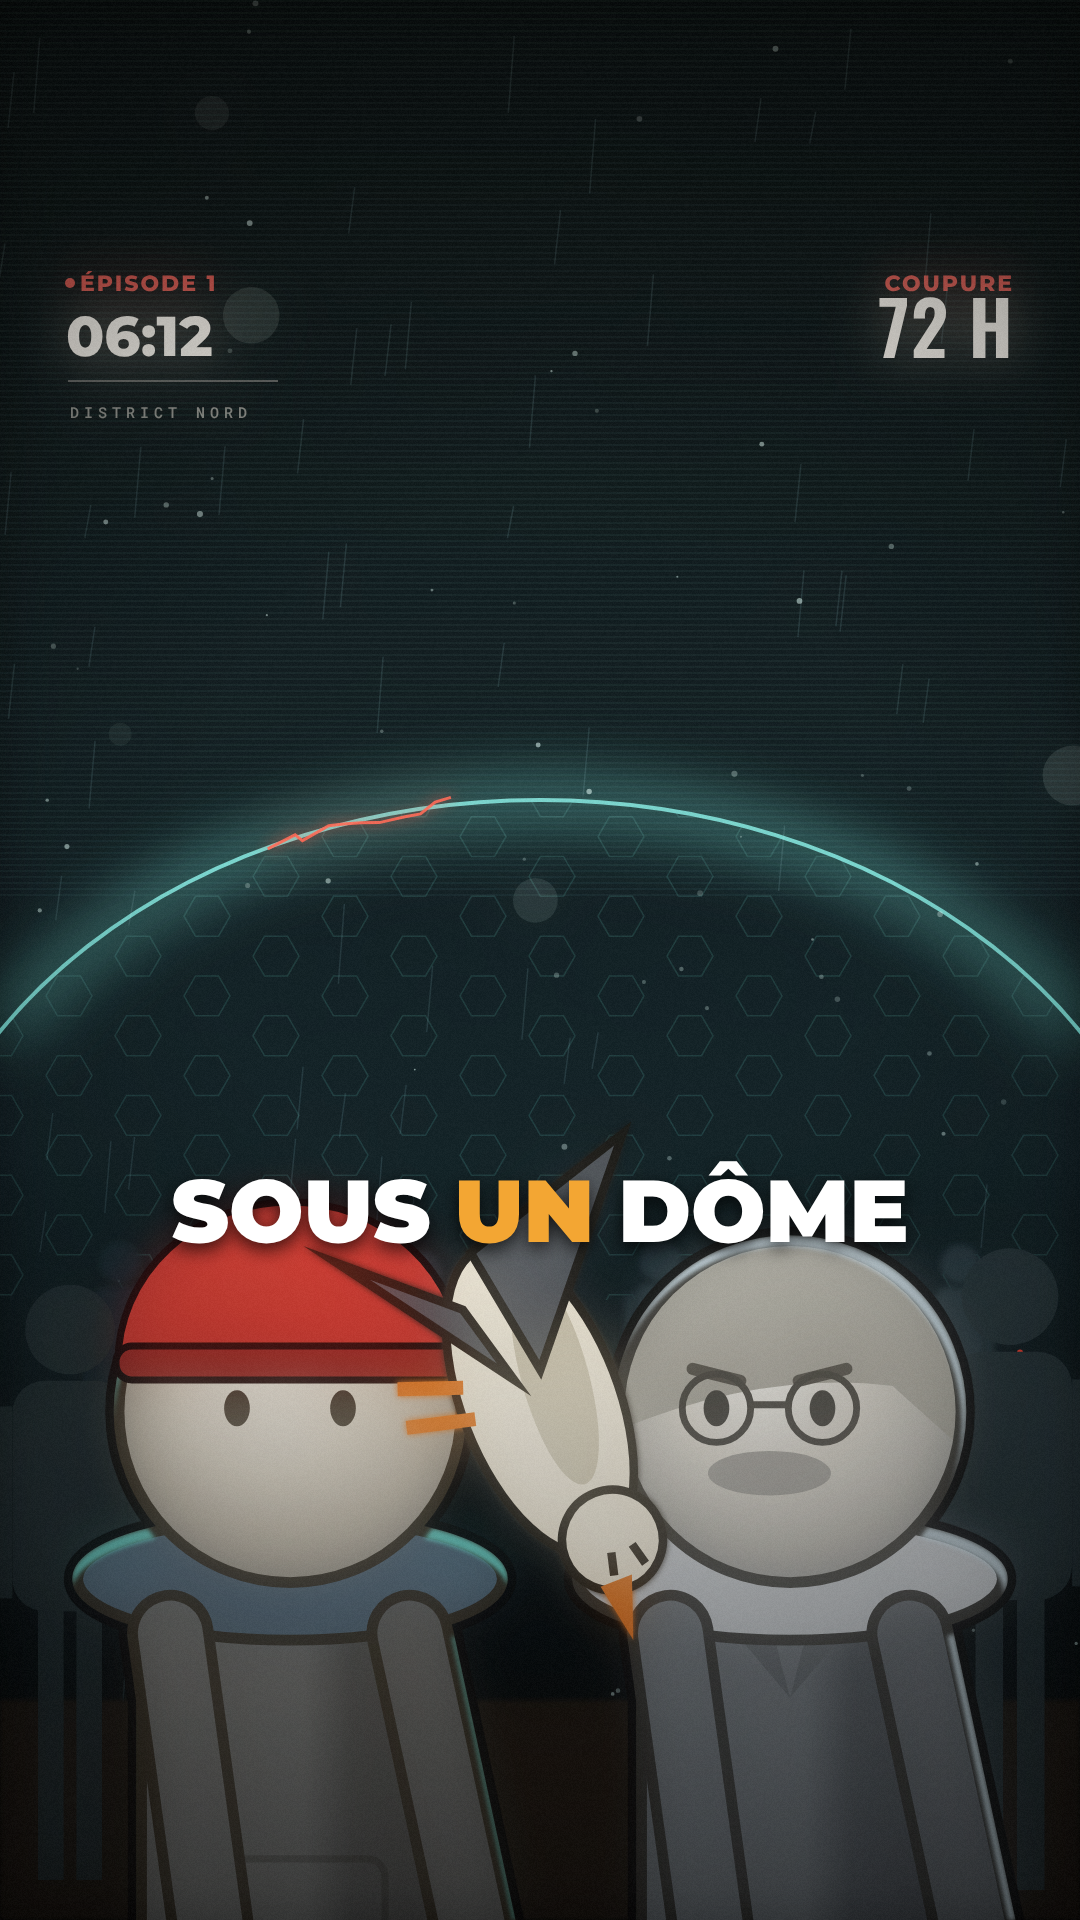
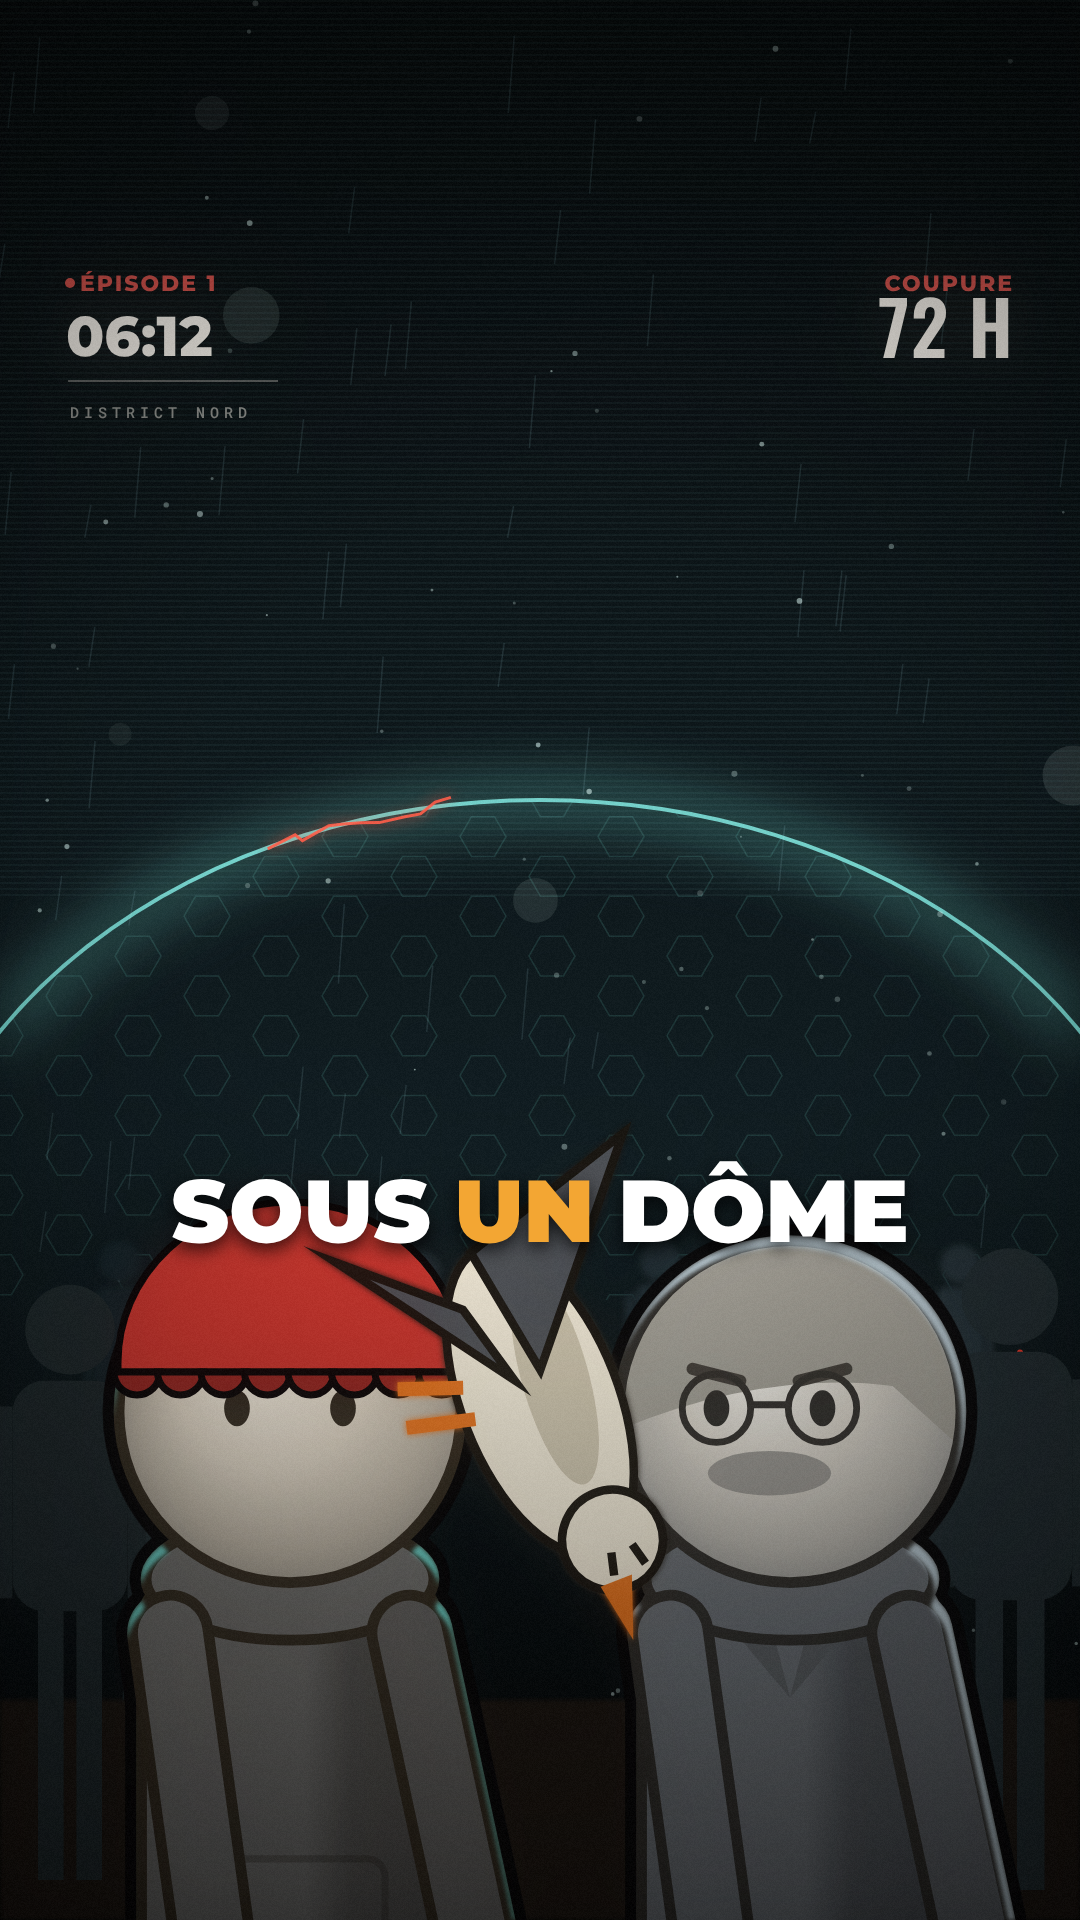
couronne-ep01 : personnages — contour plus épais et noir, col aux couleurs du vêtement et plus étroit, bonnet rouge à bord dentelé
Claude-Session: https://claude.ai/code/session_0151hKPePi5KPXjL7mUCuxno

diff --git a/productions/couronne-ep01/rendu_v3/scenes.js b/productions/couronne-ep01/rendu_v3/scenes.js
@@ -770,15 +770,15 @@ S.p02h_buste_vivant = g => {                              // image 2 v13
   holoDome(g, 101);
   layer(g, q => { q.fillStyle = "#1b1510"; q.fillRect(0, 1700, W, H - 1700); }, { blur: 2 });
   crowdStanding(g);
-  actor(g, 790, 2650, 1.8, { ...PERE, body: "#5d6166", bodyDark: "#383b40", torsoW: 165, look: -0.12, arms: [[-1, 10], [1, 10]] }, { rim: "#cfe3ee", rimAng: -1.2, rimW: 7, key: "#dfe9ef", shadow: false });   // père, côté droit
-  actor(g, 290, 2650, 1.8, { ...HERO, body: "#5d6166", bodyDark: "#383b40", strings: false, torsoW: 165, look: 0.0, arms: [[-1, 10], [1, 10]] }, { rim: TEAL, rimAng: -1.57, rimW: 7, key: "#ffd9a0", shadow: false });
+  actor(g, 790, 2650, 1.8, { ...PERE, body: "#5d6166", bodyDark: "#383b40", ring: "#5d6166", ringW: 80, torsoW: 165, look: -0.12, arms: [[-1, 10], [1, 10]] }, { rim: "#cfe3ee", rimAng: -1.2, rimW: 7, key: "#dfe9ef", shadow: false });   // père, côté droit
+  actor(g, 290, 2650, 1.8, { ...HERO, body: "#5d6166", bodyDark: "#383b40", ring: "#5d6166", ringW: 80, strings: false, torsoW: 165, look: 0.0, arms: [[-1, 10], [1, 10]] }, { rim: TEAL, rimAng: -1.57, rimW: 7, key: "#ffd9a0", shadow: false });
   // bonnet rouge du fils (pas de capuche)
   g.fillStyle = "#c4342d"; g.strokeStyle = "#050405"; g.lineWidth = 7;
   g.beginPath(); g.ellipse(290, 1362, 172, 160, 0, Math.PI, 2 * Math.PI); g.lineTo(462, 1372); g.lineTo(118, 1372); g.closePath(); g.fill(); g.stroke();
-  g.fillStyle = "#8e2420"; g.beginPath(); g.roundRect(116, 1346, 348, 34, 16); g.fill(); g.stroke();
+  g.fillStyle = "#8e2420"; for (let k = 0; k < 8; k++) { g.beginPath(); g.arc(137 + k * 43.5, 1372, 23, 0, Math.PI); g.closePath(); g.fill(); g.stroke(); }   // bord dentelé
   pigeon(g, 540, 1400, 2.8, 1.2, 3);
   pigeon(g, 540, 1400, 2.8, 1.2, 0);
-  hud(g); finish(g, { bloom: 0.35, grade: ["#06202a", "#ffd9a0", 0.16] }); caption(g, ["SOUS", "UN", "DÔME"], 1);
+  hud(g); finish(g, { bloom: 0.08, grade: ["#000000", "#ffd9a0", 0.03] }); caption(g, ["SOUS", "UN", "DÔME"], 1);
 };
 S.p02i_sol_vivant = g => {                                // image 3 v13
   sky(g, [[0, "#070b0d"], [0.6, "#0f1a1e"], [1, "#040506"]]);
@@ -786,15 +786,15 @@ S.p02i_sol_vivant = g => {                                // image 3 v13
   holoDome(g, 103);
   layer(g, q => { q.fillStyle = "#1b1510"; q.fillRect(0, 1700, W, H - 1700); }, { blur: 2 });
   crowdStanding(g);
-  actor(g, 790, 2650, 1.8, { ...PERE, body: "#5d6166", bodyDark: "#383b40", torsoW: 165, look: -0.12, arms: [[-1, 10], [1, 10]] }, { rim: "#cfe3ee", rimAng: -1.2, rimW: 7, key: "#dfe9ef", shadow: false });   // père, côté droit
-  actor(g, 290, 2650, 1.8, { ...HERO, body: "#5d6166", bodyDark: "#383b40", strings: false, torsoW: 165, look: 0.0, arms: [[-1, 10], [1, 10]] }, { rim: TEAL, rimAng: -1.57, rimW: 7, key: "#ffd9a0", shadow: false });
+  actor(g, 790, 2650, 1.8, { ...PERE, body: "#5d6166", bodyDark: "#383b40", ring: "#5d6166", ringW: 80, torsoW: 165, look: -0.12, arms: [[-1, 10], [1, 10]] }, { rim: "#cfe3ee", rimAng: -1.2, rimW: 7, key: "#dfe9ef", shadow: false });   // père, côté droit
+  actor(g, 290, 2650, 1.8, { ...HERO, body: "#5d6166", bodyDark: "#383b40", ring: "#5d6166", ringW: 80, strings: false, torsoW: 165, look: 0.0, arms: [[-1, 10], [1, 10]] }, { rim: TEAL, rimAng: -1.57, rimW: 7, key: "#ffd9a0", shadow: false });
   g.fillStyle = "rgba(0,0,0,0.4)"; g.beginPath(); g.ellipse(880, 1852, 90, 12, 0, 0, 7); g.fill();
   // bonnet rouge du fils (pas de capuche)
   g.fillStyle = "#c4342d"; g.strokeStyle = "#050405"; g.lineWidth = 7;
   g.beginPath(); g.ellipse(290, 1362, 172, 160, 0, Math.PI, 2 * Math.PI); g.lineTo(462, 1372); g.lineTo(118, 1372); g.closePath(); g.fill(); g.stroke();
-  g.fillStyle = "#8e2420"; g.beginPath(); g.roundRect(116, 1346, 348, 34, 16); g.fill(); g.stroke();
+  g.fillStyle = "#8e2420"; for (let k = 0; k < 8; k++) { g.beginPath(); g.arc(137 + k * 43.5, 1372, 23, 0, Math.PI); g.closePath(); g.fill(); g.stroke(); }   // bord dentelé
   pigeon(g, 560, 1860, 2.0, 1.45, 0);
-  hud(g); finish(g, { bloom: 0.35, grade: ["#06202a", "#ffd9a0", 0.16] }); caption(g, ["MAGNÉTIQUE."], 0);
+  hud(g); finish(g, { bloom: 0.08, grade: ["#000000", "#ffd9a0", 0.03] }); caption(g, ["MAGNÉTIQUE."], 0);
 };
 // ---------- v17 : plan 2 — ouverture sur l'objet (feuille pliée qui tombe, gros plan, traînée de mouvement) ----------
 S.p02j_objet_debut = g => {

diff --git a/productions/couronne-ep01/rendu_v3/draw_base.js b/productions/couronne-ep01/rendu_v3/draw_base.js
@@ -138,7 +138,7 @@ function figure(g, x, F, s, o) {
   if (o.insignia) { g.fillStyle = "#c9a24e"; g.beginPath(); g.moveTo(x - tws * 0.3, top + 70 * s); g.lineTo(x - tws * 0.3 + 18 * s, top + 92 * s); g.lineTo(x - tws * 0.3, top + 114 * s); g.lineTo(x - tws * 0.3 - 18 * s, top + 92 * s); g.closePath(); g.fill(); }
   if (o.badge) { g.fillStyle = "#c9c4b8"; g.fillRect(x - tws * 0.42, top + 70 * s, 84 * s, 30 * s); g.fillStyle = "#2a2620"; g.font = `500 ${20 * s}px 'Roboto Mono'`; g.fillText(o.badge, x - tws * 0.42 + 6 * s, top + 92 * s); }
   // col / capuche / écharpe : anneau plat (ellipse) — planche 9 : écharpe sauge #576150
-  if (o.ring) { g.fillStyle = o.ring; g.beginPath(); g.ellipse(ring[0] + (side ? 8 * s : 0), ring[1], (side ? 92 : 118) * s, 34 * s, 0, 0, 7); g.fill(); outline(g, s); g.stroke(); }
+  if (o.ring) { g.fillStyle = o.ring; g.beginPath(); g.ellipse(ring[0] + (side ? 8 * s : 0), ring[1], (side ? 92 : (o.ringW || 118)) * s, 34 * s, 0, 0, 7); g.fill(); outline(g, s); g.stroke(); }
   if (o.strings) { g.strokeStyle = "#d8dce0"; g.lineWidth = 4 * s; [-1, 1].forEach(k => { g.beginPath(); g.moveTo(x + k * 22 * s, ring[1] + 20 * s); g.lineTo(x + k * 26 * s, ring[1] + 90 * s); g.stroke(); }); }
   // tête
   headShape(g, headC, R, s, o);

diff --git a/productions/couronne-ep01/rendu_v3/fx.js b/productions/couronne-ep01/rendu_v3/fx.js
@@ -37,7 +37,7 @@ function actor(g, x, F, s, outfit, o = {}) {
   }
   if (o.shadow !== false) { g.save(); g.filter = "blur(14px)"; g.fillStyle = "rgba(0,0,0,0.55)"; g.beginPath(); g.ellipse(x + (o.shDx || 0), F + 4, 150 * s, 26 * s, 0, 0, 7); g.fill(); g.restore(); }
   // contour d'encre épais et régulier autour de la silhouette (dilatation du masque, réglable par o.ink en unités de scale)
-  if (o.ink !== 0) { const ol = mk(W, H), oq = ol.getContext("2d"), w = (o.ink ?? 4.6) * s;
+  if (o.ink !== 0) { const ol = mk(W, H), oq = ol.getContext("2d"), w = (o.ink ?? 6) * s;
     for (let k = 0; k < 24; k++) { const an = k / 24 * 6.2832; oq.drawImage(c, Math.cos(an) * w, Math.sin(an) * w); }
     oq.globalCompositeOperation = "source-in"; oq.fillStyle = "#050405"; oq.fillRect(0, 0, W, H);
     g.save(); if (o.blur) g.filter = `blur(${o.blur}px)`; g.drawImage(ol, 0, 0); g.restore(); }
